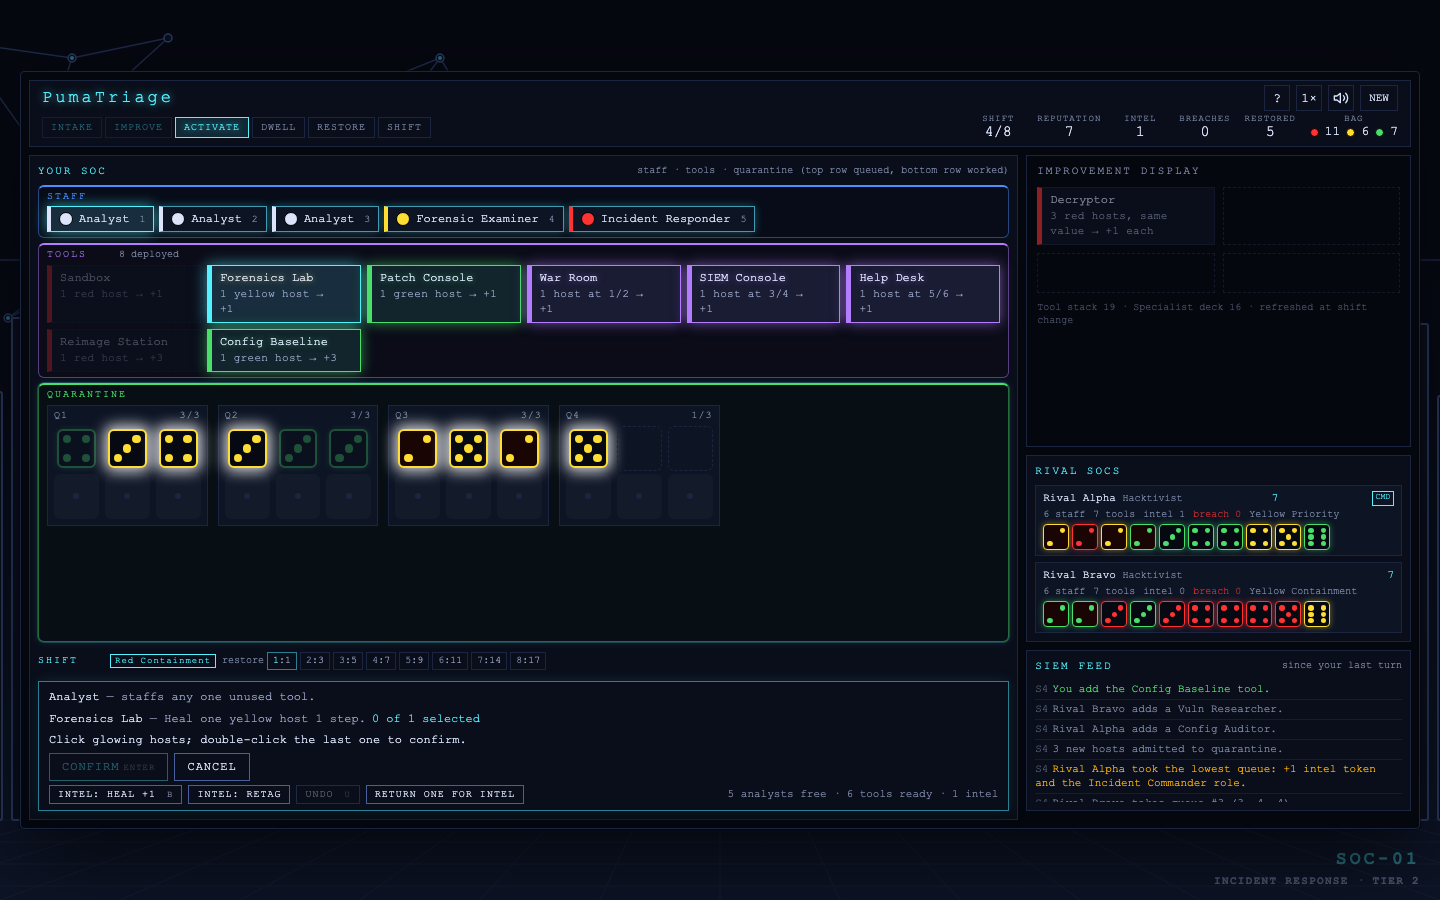
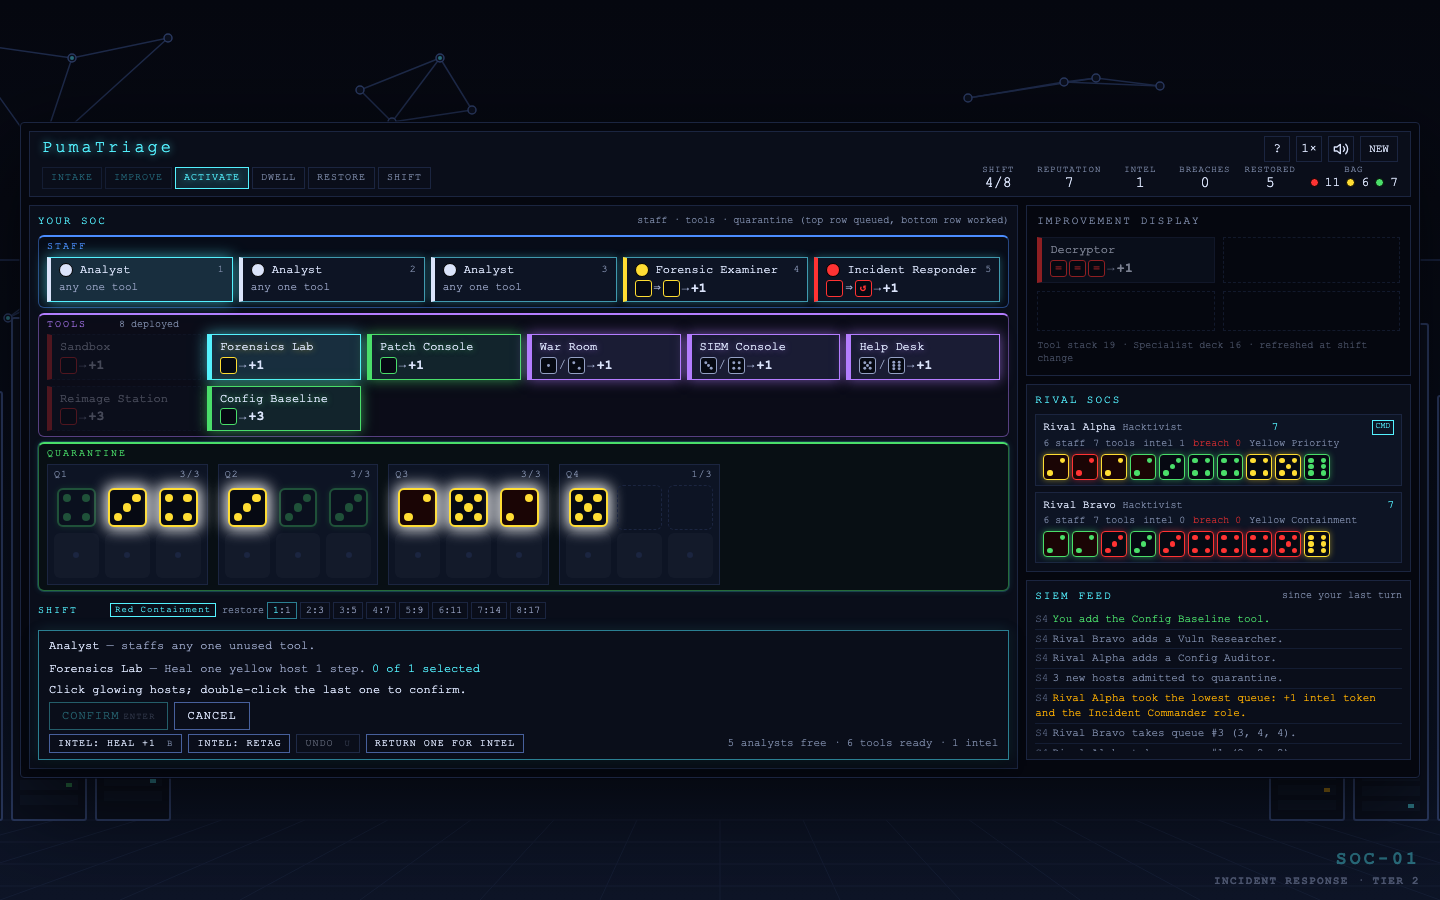
Rules in dice, a themed hover box, and staff back to full cards
The compact layout had turned staff into unreadable chips while the
quarantine mat sat on space it would never use. The cards now say their
rules in dice, as the printed game does, and the sentence moves into a
themed hover box, so every card fits in one short row.

- Pictograms, drawn from each card's targeting data: a die in the host's
  colour (steel for any), faces for required values, = for "same value",
  ↺ for "that host again", +1 links for a run, → effect. Specialists read
  trigger ⇒ follow-up. Virtualization tools mark their pink die and pink
  heal; the hardening bays show heal-one, park-two. Only On-call Rotation
  and a few non-dice specialists keep a short phrase.
- Hover box: one themed box for every card, chip, token and badge. It
  takes over any plain title on first hover, shows the name and full rule
  with an edge in the card's colour, opens on keyboard focus, closes on
  Esc, and follows the card when the board re-renders.
- Staff stay cards in the compact layout (one pictogram row each); corner
  labels (USED, PLACED, OUT SICK) no longer sit on a long name.
- The shared table in the side column is as tall as the most it has held
  this game rather than a height reserved for card text (292px; it needs
  about 200 now), and the SIEM feed's floor drops to 120px. The side
  column no longer outgrows the board, so quarantine is back to its
  natural height. The network map keeps its fixed heights.
[…]

Changed region(s): [[0.0, 0.0933, 0.9688, 0.9333], [0.7188, 0.0622, 0.8125, 0.0933], [0.25, 0.0622, 0.2812, 0.0933]]

diff --git a/index.html b/index.html
@@ -448,6 +448,37 @@ a { color: var(--accent); }
 .token.breach { color: var(--red); border-color: var(--red); }
 .badge { display: inline-block; font-size: 9px; padding: 0 4px; border: 1px solid var(--accent); color: var(--accent); letter-spacing: 1px; }
 
+/* Pictograms: a card's rule in dice. */
+.pg { display: inline-flex; align-items: center; flex-wrap: wrap; gap: 2px; line-height: 1; vertical-align: middle; }
+.pd { box-sizing: border-box; width: 17px; height: 17px; flex: none; display: inline-flex; align-items: center; justify-content: center;
+  border: 1.5px solid currentColor; border-radius: 3px; background: #060912; color: #94a0c4; }
+.pd svg { width: 13px; height: 13px; fill: currentColor; }
+.pd b { font: bold 11px/1 var(--font-mono); }
+.pd.c-red { color: var(--red); } .pd.c-yellow { color: var(--yellow); } .pd.c-green { color: var(--green); }
+.pd.c-pink { color: var(--pink); } .pd.c-white { color: var(--white); } .pd.c-blue { color: var(--blue); }
+.ps { color: var(--text); font-size: 12px; }
+.ps.pl { font-size: 9px; letter-spacing: -1px; } /* the +1 between dice in a run */
+.pe { color: var(--white); font-size: 13px; font-weight: bold; } .pe.c-pink { color: var(--pink); }
+.pt { color: var(--text); font-size: 11px; }
+.dept-tile .dr, .meeple .ab, .spec-card .sd { color: var(--text); }
+/* A card's corner label (USED, PLACED, OUT SICK) never sits on its name. */
+.meeple.used .mh, .meeple.off .mh { padding-right: 52px; }
+.dept-tile.used .dn { padding-right: 34px; }
+
+/* The hover box. Its edge takes the colour of what it describes. */
+#tip {
+  position: fixed; z-index: 9800; left: 0; top: 0; max-width: 300px; pointer-events: none;
+  padding: 7px 10px 8px; background: var(--panel); color: var(--text); font-size: 12px; line-height: 1.4;
+  border: 1px solid var(--lit); border-left: 3px solid var(--tc, var(--accent)); border-radius: 3px;
+  box-shadow: 0 8px 24px rgba(0,0,0,0.6), 0 0 12px rgba(84,242,255,0.08);
+  opacity: 0; visibility: hidden; transition: opacity .12s, visibility 0s .12s;
+}
+#tip.on { opacity: 1; visibility: visible; transition: opacity .12s; }
+#tip .th { color: var(--white); font-size: 11px; letter-spacing: 1px; text-transform: uppercase; margin-bottom: 3px; }
+#tip[data-c="red"] { --tc: var(--red); } #tip[data-c="yellow"] { --tc: var(--yellow); } #tip[data-c="green"] { --tc: var(--green); }
+#tip[data-c="pink"] { --tc: var(--pink); } #tip[data-c="any"] { --tc: var(--violet); } #tip[data-c="exp"], #tip[data-c="blue"] { --tc: var(--blue); }
+#tip[data-c="white"] { --tc: var(--white); }
+
 /* ============================================================
    CENTER — queues, display, reports, activation controls
    ============================================================ */
@@ -629,7 +660,7 @@ a { color: var(--accent); }
 /* The feed fills the side column down to the bottom of the action strip and
    never sets its height: size containment keeps a long log from stretching
    the row, so the board column decides how tall the game is. */
-#siem { flex: 1 1 0; min-height: 160px; contain: size; display: flex; flex-direction: column; margin-bottom: 9px; } /* the board panel's padding + border under the strip */
+#siem { flex: 1 1 0; min-height: 120px; contain: size; display: flex; flex-direction: column; margin-bottom: 9px; } /* the board panel's padding + border under the strip */
 #siem .log-scroll { flex: 1; min-height: 0; overflow-y: auto; }
 #siem ul { list-style: none; margin: 0; padding: 0; font-size: 11px; }
 #siem li { padding: 2px 0; border-bottom: 1px solid var(--line); animation: log-enter .3s var(--ease-out-quart); word-break: break-word; }
@@ -770,14 +801,8 @@ details.addons summary::-webkit-details-marker { display: none; }
   #staff, #depts { min-height: 0; }
   .grp { padding: 3px 8px 5px; margin-bottom: 5px; }
   .grp > .board-row { margin-bottom: 3px; }
-  /* Staff as one-line chips sized to the name: the ability is the tooltip,
-     and the strip spells it out once the analyst is picked. */
-  #staff { display: flex; flex-wrap: wrap; gap: 5px; }
-  .meeple { flex: 0 1 auto; flex-direction: row; align-items: center; gap: 8px; min-height: 0; padding: 4px 8px; }
-  .meeple .mh { gap: 6px; }
-  .meeple .ab { display: none; }
-  .meeple .key { margin-left: 4px; }
-  .meeple.used::after, .meeple.off::after { position: static; }
+  /* Staff stay cards: the pictogram row is one line, the sentence is the hover box. */
+  .meeple { min-height: 0; padding: 4px 8px; gap: 2px; }
   /* Tools: shorter tiles in narrower columns, so one more fits a row. */
   #depts { grid-template-columns: repeat(auto-fill, minmax(150px, 1fr)); gap: 6px; }
   .dept-tile { min-height: 0; padding: 5px 18px 5px 8px; }
@@ -1269,7 +1294,7 @@ const WAIT = "wait", ANIM = "anim", NEXT = "next";
 
 const UI = {
   sel: {}, legalTargets: new Set(), legalByDept: {}, undo: [], undoBarrier: 0,
-  eventQueue: [], queueTimer: null, boardMax: 0, boardFor: null, boardKey: "", animating: false, headless: false, simulating: false,
+  eventQueue: [], queueTimer: null, boardMax: 0, tableMax: 0, boardFor: null, boardKey: "", animating: false, headless: false, simulating: false,
   flipRects: new Map(), cardH: new Map(), prevHUD: {}, prevPhase: null, muted: false,
   reducedMotion: window.matchMedia && window.matchMedia("(prefers-reduced-motion: reduce)").matches,
   newGameConfirmTimer: null, phaseToastTimer: null, autoHuman: false, tutorialStep: -1,
@@ -4368,7 +4393,16 @@ function holdBoard() {
   const board = document.getElementById("board");
   if (!board || !document.getElementById("strip")) return;
   const key = innerWidth + "x" + innerHeight;
-  if (UI.boardFor !== G || UI.boardKey !== key) { UI.boardFor = G; UI.boardKey = key; UI.boardMax = 0; }
+  if (UI.boardFor !== G || UI.boardKey !== key) { UI.boardFor = G; UI.boardKey = key; UI.boardMax = 0; UI.tableMax = 0; }
+  // The shared table in the side column is as tall as the most it has held
+  // this game, not a height reserved for the longest card text: with the
+  // rules drawn as dice it holds far less. The network map keeps its own.
+  const table = document.querySelector("#side-table #table");
+  if (table && !G.cfg.city) {
+    table.style.height = "auto";
+    UI.tableMax = Math.max(UI.tableMax, table.offsetHeight);
+    table.style.height = UI.tableMax + "px";
+  }
   board.style.minHeight = "";
   UI.boardMax = Math.max(UI.boardMax, board.offsetHeight);
   board.style.minHeight = UI.boardMax + "px";
@@ -4387,6 +4421,7 @@ function updateAll() {
   repositionGhosts();
   markAttention();
   holdBoard();
+  refreshTip();
   UI.leaving = null;
 }
 // The one section that holds your next move breathes softly: the shared
@@ -4517,13 +4552,149 @@ function specDesc(def) {
   const target = kind === "healedOf" ? `one of those ${c} hosts` : kind === "otherOf" ? `a different ${c} host` : kind === "otherValueEqPre" ? `a different host of any colour whose value equals what the ${c} host was before healing` : `${t.n === 2 ? "two different hosts" : "a different host"}${vals}`;
   return `${trig}: heal ${target} ${t.heal} ${plural(t.heal, "step")}${t.n === 2 ? " each" : ""}.`;
 }
+/* ============================================================
+   PICTOGRAMS — the cards say it in dice, as the board game does;
+   the sentence lives in the hover box. A die is coloured by the
+   host it takes ("any" is steel), and its face says what else:
+   pips for a required value, = for "the same value", ↺ for "that
+   same host again". Dice in a run are joined by +1.
+   ============================================================ */
+const PIPS = { 1: [[6, 6]], 2: [[3.5, 3.5], [8.5, 8.5]], 3: [[3.5, 3.5], [6, 6], [8.5, 8.5]], 4: [[3.5, 3.5], [8.5, 3.5], [3.5, 8.5], [8.5, 8.5]], 5: [[3.5, 3.5], [8.5, 3.5], [6, 6], [3.5, 8.5], [8.5, 8.5]], 6: [[3.5, 3], [8.5, 3], [3.5, 6], [8.5, 6], [3.5, 9], [8.5, 9]] };
+function pgDie(colour, mark) {
+  const inner = typeof mark === "number"
+    ? `<svg viewBox="0 0 12 12" aria-hidden="true">${PIPS[mark].map(([x, y]) => `<circle cx="${x}" cy="${y}" r="1.35"/>`).join("")}</svg>`
+    : mark ? `<b>${mark}</b>` : "";
+  return `<span class="pd c-${colour || "any"}">${inner}</span>`;
+}
+const pgEff = t => `<span class="pe">${t}</span>`;
+const pgSep = t => `<span class="ps">${t}</span>`;
+// The dice a selection takes: values as faces (1/2), a count when they are alike.
+function pgSel(sel, colourOf) {
+  const n = sel.n, colour = i => (colourOf ? colourOf(i) : sel.colour) || "any";
+  if (sel.values) {
+    const faces = sel.values.map(v => pgDie(colour(0), v)).join(pgSep("/"));
+    return (n > 1 ? pgSep(`${sel.min !== undefined && sel.min !== n ? "≤" : ""}${n}×`) : "") + faces;
+  }
+  if (sel.rel === "sameValue") return Array.from({ length: n }, (_, i) => pgDie(colour(i), "=")).join("");
+  if (sel.rel === "consecutive") return Array.from({ length: n }, (_, i) => pgDie(colour(i))).join(`<span class="ps pl">+1</span>`);
+  if (n > 2 || (sel.min !== undefined && sel.min !== n)) return pgSep(`${sel.min !== undefined && sel.min !== n ? "≤" : ""}${n}×`) + pgDie(colour(0));
+  return Array.from({ length: n }, (_, i) => pgDie(colour(i))).join("");
+}
+const OP_GLYPH = { reroll: "↻", recolour: "◐", flip: "⇅", park: "⤓" };
+// A tool: the dice it takes → what it does. A pink die marks the hypervisor
+// or guest a Virtualization tool needs, and its own, larger heal is pink.
+function deptPicto(def) {
+  const sel = def.sel;
+  if (!sel || !sel.n) return `<span class="pt">${esc(deptRule(def))}</span>`;
+  const pg = h => `<span class="pg">${h}</span>`;
+  const pinkAt = sel.pinkPos ? { lowest: 0, middle: 1, highest: sel.n - 1 }[sel.pinkPos] : sel.pinkMin || sel.needMother ? 0 : -1;
+  const colourOf = i => sel.colour || (sel.starColour && i === 0 ? sel.starColour : null) || (i === pinkAt || (sel.needInfant && i === 1) ? PINK : null) || "any";
+  const pinkEff = n => `<span class="pe c-pink">+${n}</span>`;
+  // One host healed, the rest moved to Worked untouched.
+  if (def.op === "park") return pg(pgDie(colourOf(0)) + (colourOf(0) === PINK ? pinkEff(def.pinkHeal) : pgEff(`+${def.star.heal}`)) + " " + pgSep(`${sel.n - 1}×`) + pgDie("any") + pgEff(OP_GLYPH.park));
+  if (def.op === "rerollOther") return pg(pgDie(PINK) + pinkEff(def.pinkHeal) + " " + pgDie("any") + pgEff(OP_GLYPH.reroll));
+  if (def.pinkOne && def.heal) return pg(pgDie("any", "=") + pgEff(`+${def.heal}`) + " " + pgDie(PINK, "=") + pinkEff(def.pinkHeal));
+  const eff = def.pinkHeal ? `${pinkEff(def.pinkHeal)}${pgSep("/")}${pgEff(`+${def.heal}`)}` : pgEff(def.heal ? `+${def.heal}` : OP_GLYPH[def.op] || "");
+  return pg(`${pgSel(sel, colourOf)}${pgSep("→")}${eff}`);
+}
+// A specialist: what sets it off ⇒ its follow-up.
+const SPEC_SHORT = { copy: "copies a specialist", advisor: "desk: a second vendor line", strategist: "desk: draw 3, keep 1", integration: "+ another tool's upgrade", automation: "+ this tool's upgrade again" };
+function specPicto(def) {
+  if (def.special) return `<span class="pt">${SPEC_SHORT[def.special] || ""}</span>`;
+  const w = def.when, t = def.then;
+  const trig = w.always ? pgSep("any tool") : w.dischargedAny ? pgDie("any", "✓") : w.dischargedPink ? pgDie("pink", "✓")
+    : pgDie(w.healedColour || (w.healedPink ? "pink" : "any"));
+  let then;
+  if (t.choice === "admissions") then = `<span class="pt">hand off or admit</span>`;
+  else if (t.choice === "pathologist") then = `<span class="pt">close a breach → +1 intel</span>`;
+  else if (t.op === "score") then = pgEff(`+${t.n} rep`);
+  else if (t.op === "bloodBag") then = pgEff(`+${t.n || 1} intel`);
+  else if (t.op === "park") then = pgSep(`${t.n}×`) + pgDie("any") + pgSep("→") + pgEff(OP_GLYPH.park);
+  else if (t.op) then = pgDie("any") + pgSep("→") + pgEff(OP_GLYPH[t.op]);
+  else if (t.and) then = pgDie("any") + pgEff("+1") + " " + pgDie("any") + pgEff("−1");
+  else if (t.pair) then = pgDie("pink") + pgEff("+1") + " " + pgDie("any", "=") + pgEff("+1");
+  else {
+    const [kind, c] = (t.from || "other").split(":");
+    const one = kind === "healedOf" ? pgDie(c, "↺") : kind === "otherOf" ? pgDie(c) : kind === "otherValueEqPre" ? pgDie("any", "=") : null;
+    const dice = one ? (t.n > 1 ? one.repeat(t.n) : one) : pgSel({ n: t.n, values: t.values });
+    then = dice + pgSep("→") + pgEff(`+${t.heal}`);
+  }
+  return `<span class="pg">${trig}${pgSep("⇒")}${then}</span>`;
+}
+/* ============================================================
+   HOVER BOX — one themed box for the whole page. Cards carry
+   data-tip (and a heading, and their colour for the edge); any
+   plain title met on the way is taken over the first time it is
+   hovered, so the browser's own tooltip never shows.
+   ============================================================ */
+function tipAttrs(head, body, colour) {
+  return `data-tip="${esc(body)}" data-tip-h="${esc(head)}" data-tip-c="${esc(colour || "")}"`;
+}
+const TIP = { el: null, target: null, x: -1, y: -1, timer: null };
+function tipTarget(node) {
+  const el = node && node.closest ? node.closest("[data-tip], [title]") : null;
+  if (!el || el === document.documentElement) return null;
+  if (el.hasAttribute("title")) {
+    const t = el.getAttribute("title");
+    el.removeAttribute("title");
+    if (!t) return null;
+    el.dataset.tip = t;
+    if (!el.hasAttribute("aria-label")) el.setAttribute("aria-description", t);
+  }
+  return el.dataset.tip ? el : null;
+}
+function showTip(el) {
+  const tip = TIP.el;
+  if (!tip) return;
+  TIP.target = el;
+  tip.dataset.c = el.dataset.tipC || "";
+  tip.innerHTML = (el.dataset.tipH ? `<div class="th">${esc(el.dataset.tipH)}</div>` : "") + `<div class="tb">${esc(el.dataset.tip)}</div>`;
+  tip.classList.add("on");
+  const r = el.getBoundingClientRect(), w = tip.offsetWidth, h = tip.offsetHeight, gap = 8;
+  let top = r.top - h - gap;
+  if (top < gap) top = Math.min(r.bottom + gap, innerHeight - h - gap);
+  const left = Math.max(gap, Math.min(r.left + r.width / 2 - w / 2, innerWidth - w - gap));
+  tip.style.left = left + "px"; tip.style.top = Math.max(gap, top) + "px";
+}
+function hideTip() {
+  clearTimeout(TIP.timer);
+  TIP.target = null;
+  if (TIP.el) TIP.el.classList.remove("on");
+}
+function hoverTip(node, now) {
+  const el = tipTarget(node);
+  if (el === TIP.target && el) return;
+  clearTimeout(TIP.timer);
+  if (!el) { hideTip(); return; }
+  if (now || TIP.target) showTip(el);
+  else TIP.timer = setTimeout(() => { if (el.isConnected) showTip(el); }, 140);
+}
+// A render replaces the cards under the pointer: point the box at whatever is there now.
+function refreshTip() {
+  if (!TIP.target || TIP.target.isConnected) { if (TIP.target) showTip(TIP.target); return; }
+  const el = TIP.x >= 0 ? tipTarget(document.elementFromPoint(TIP.x, TIP.y)) : null;
+  if (el) showTip(el); else hideTip();
+}
+function setupTips() {
+  const tip = document.createElement("div");
+  tip.id = "tip"; tip.setAttribute("role", "tooltip"); tip.setAttribute("aria-hidden", "true");
+  document.body.appendChild(tip);
+  TIP.el = tip;
+  document.addEventListener("pointerover", e => { if (e.pointerType === "touch") return; TIP.x = e.clientX; TIP.y = e.clientY; hoverTip(e.target); });
+  document.addEventListener("pointermove", e => { TIP.x = e.clientX; TIP.y = e.clientY; }, { passive: true });
+  document.addEventListener("pointerout", e => { if (!e.relatedTarget) hideTip(); });
+  document.addEventListener("focusin", e => { if (e.target.matches && e.target.matches(":focus-visible")) hoverTip(e.target, true); });
+  document.addEventListener("focusout", () => hideTip());
+  document.addEventListener("keydown", e => { if (e.key === "Escape") hideTip(); });
+  window.addEventListener("scroll", hideTip, { passive: true, capture: true });
+}
 function renderDeptTile(type, cls, attrs, inner) {
   const def = DEPT_DEFS[type];
-  return `<div class="dept-tile tag-${def.tag} ${cls || ""}" ${attrs || ""} title="${esc(deptDesc(def))}"><div><div class="dn">${esc(def.name)}</div><div class="dr">${esc(deptRule(def))}</div></div>${inner || ""}</div>`;
+  return `<div class="dept-tile tag-${def.tag} ${cls || ""}" ${attrs || ""} ${tipAttrs(def.name, deptDesc(def), def.tag)}><div><div class="dn">${esc(def.name)}</div><div class="dr">${deptPicto(def)}</div></div>${inner || ""}</div>`;
 }
 function renderSpecCard(type, cls, attrs) {
   const def = SPEC_DEFS[type];
-  return `<div class="spec-card tag-${def.colour} ${cls || ""}" ${attrs || ""}><div class="sn"><span class="mini-dot c-${def.colour} dot"></span> ${esc(def.name)}</div><div class="sd">${esc(specDesc(def))}</div></div>`;
+  return `<div class="spec-card tag-${def.colour} ${cls || ""}" ${attrs || ""} ${tipAttrs(def.name, specDesc(def), def.colour)}><div class="sn"><span class="mini-dot c-${def.colour} dot"></span> ${esc(def.name)}</div><div class="sd">${specPicto(def)}</div></div>`;
 }
 function renderMeeple(p, m, key) {
   const s = UI.sel, cls = ["b-" + m.colour];
@@ -4547,12 +4718,14 @@ function renderMeeple(p, m, key) {
   if (live && s.state === "rotation" && m.kind === "spec" && m.used && !m.off && !m.invest) cls.push("clickable");
   if (m.invest) cls.push("invest");
   let ability = m.temp ? "A one-shift analyst: any one unused tool." : "Any one unused tool.";
+  let picto = `<span class="pt">any one tool</span>`;
   if (def) {
     ability = specDesc(def);
-    if (def.special === "copy" && p.consultantCopy) ability = `Shadowing the ${SPEC_DEFS[p.consultantCopy].name}: ${specDesc(SPEC_DEFS[p.consultantCopy])}`;
+    picto = specPicto(def);
+    if (def.special === "copy" && p.consultantCopy) { ability = `Shadowing the ${SPEC_DEFS[p.consultantCopy].name}: ${specDesc(SPEC_DEFS[p.consultantCopy])}`; picto = specPicto(SPEC_DEFS[p.consultantCopy]); }
   }
   const label = meepleLabel(p, m) + (m.used ? " (placed)" : m.off ? " (out sick)" : "") + ". " + ability;
-  return `<div class="meeple ${cls.join(" ")}" data-act="meeple" data-uid="${m.uid}" role="button" tabindex="0" aria-label="${esc(label)}" aria-pressed="${s.meepleUid === m.uid}" title="${esc(ability)}"><div class="mh"><span class="dot c-${m.colour}"></span><span>${esc(meepleLabel(p, m))}</span>${spec && (spec.tokens || []).length ? spec.tokens.map(upgChip).join("") : ""}${key ? `<span class="key">${key}</span>` : ""}</div><div class="ab">${esc(ability)}</div></div>`;
+  return `<div class="meeple ${cls.join(" ")}" data-act="meeple" data-uid="${m.uid}" role="button" tabindex="0" aria-label="${esc(label)}" aria-pressed="${s.meepleUid === m.uid}" ${tipAttrs(meepleLabel(p, m), ability, m.colour)}><div class="mh"><span class="dot c-${m.colour}"></span><span>${esc(meepleLabel(p, m))}</span>${spec && (spec.tokens || []).length ? spec.tokens.map(upgChip).join("") : ""}${key ? `<span class="key">${key}</span>` : ""}</div><div class="ab">${picto}</div></div>`;
 }
 // The guest segment under a quarantine segment: its guests, and the
 // placement it offers while it holds any.
@@ -4608,7 +4781,7 @@ function renderBoard() {
     const m = p.meeples.find(x => x.deptUid === d.uid);
     const inner = m ? `<span class="meep-on mini-dot dot c-${m.colour}" title="${esc(meepleLabel(p, m))}"></span>` : "";
     const clickable = cls.includes("can") || cls.includes("returnable");
-    html += `<div class="dept-tile tag-${def.tag} ${cls.join(" ")}" data-act="dept" data-uid="${d.uid}" role="button" tabindex="0" aria-disabled="${!clickable}" title="${esc(why)}"><div><div class="dn">${esc(def.name)}</div><div class="dr">${esc(deptRule(def))}</div>${(d.tokens || []).length ? `<div class="upgs">${d.tokens.map(upgChip).join("")}</div>` : ""}</div>${inner}</div>`;
+    html += `<div class="dept-tile tag-${def.tag} ${cls.join(" ")}" data-act="dept" data-uid="${d.uid}" role="button" tabindex="0" aria-disabled="${!clickable}" ${tipAttrs(def.name, why, def.tag)}><div><div class="dn">${esc(def.name)}</div><div class="dr">${deptPicto(def)}</div>${(d.tokens || []).length ? `<div class="upgs">${d.tokens.map(upgChip).join("")}</div>` : ""}</div>${inner}</div>`;
   }
   html += '</div></section>';
   html += '<section class="grp grp-wards" aria-label="Quarantine"><div class="board-row"><span class="lbl">Quarantine</span></div><div id="wards">';
@@ -5374,6 +5547,7 @@ function sceneSVG() {
 function init() {
   const scene = document.getElementById("scene");
   if (scene) scene.innerHTML = sceneSVG();
+  setupTips();
   setupInput();
   try { if (localStorage.getItem("pumatriage_muted_v1") === "1") { UI.muted = true; document.getElementById("mute-btn").setAttribute("aria-pressed", "true"); } } catch (e) {}
   try { const sp = parseInt(localStorage.getItem("pumatriage_speed_v1") || "1", 10); if (sp >= 1 && sp <= 3) { UI.speed = sp; const b = document.getElementById("speed-btn"); if (b) b.textContent = SPEED_LABEL[sp]; } } catch (e) {}

diff --git a/README.md b/README.md
@@ -36,6 +36,7 @@ Each of the eight shifts runs six phases: **Intake** (three hosts are rolled per
 - **Undo** during activation (blocked past a re-roll), autosave and resume, a speed control for rival turns
 - **Overtime** — at the shift 8 scorecard, play on from the same board for another eight shifts; only the shift counter resets, and the next scorecard counts everything since the start
 - **The board is the table** — dice scale with the window, and one strip under the quarantine segments carries the current rule, the prompt and the buttons; a phase strip and the restoration ladder keep the round structure and scoring brackets in view; on laptop-height screens the staff row packs into chips and the strip loses its header so the quarantine segments stay on screen
+- **Rules in dice** — like the printed cards, every tool and specialist shows its rule as a row of dice pictograms (a coloured die for the host it takes, faces for the values it needs, = for "same value", ↺ for "that host again", +1 links for a run); hover any card, chip or token for the full rule in a themed box
 - **A SOC around the game** — the board floats in the middle of the window over a line-drawn operations room; the SIEM feed shows what happened since your last turn, with everything earlier under a fold, and ends level with the bottom of the action strip
 - **Tactical look** — the cyan-on-navy palette PumaRally and PumaTycoon share, monospace terminal type; FLIP-animated dice
 - **Sound effects** — Web Audio API procedurally generated retro sounds (mutable)
